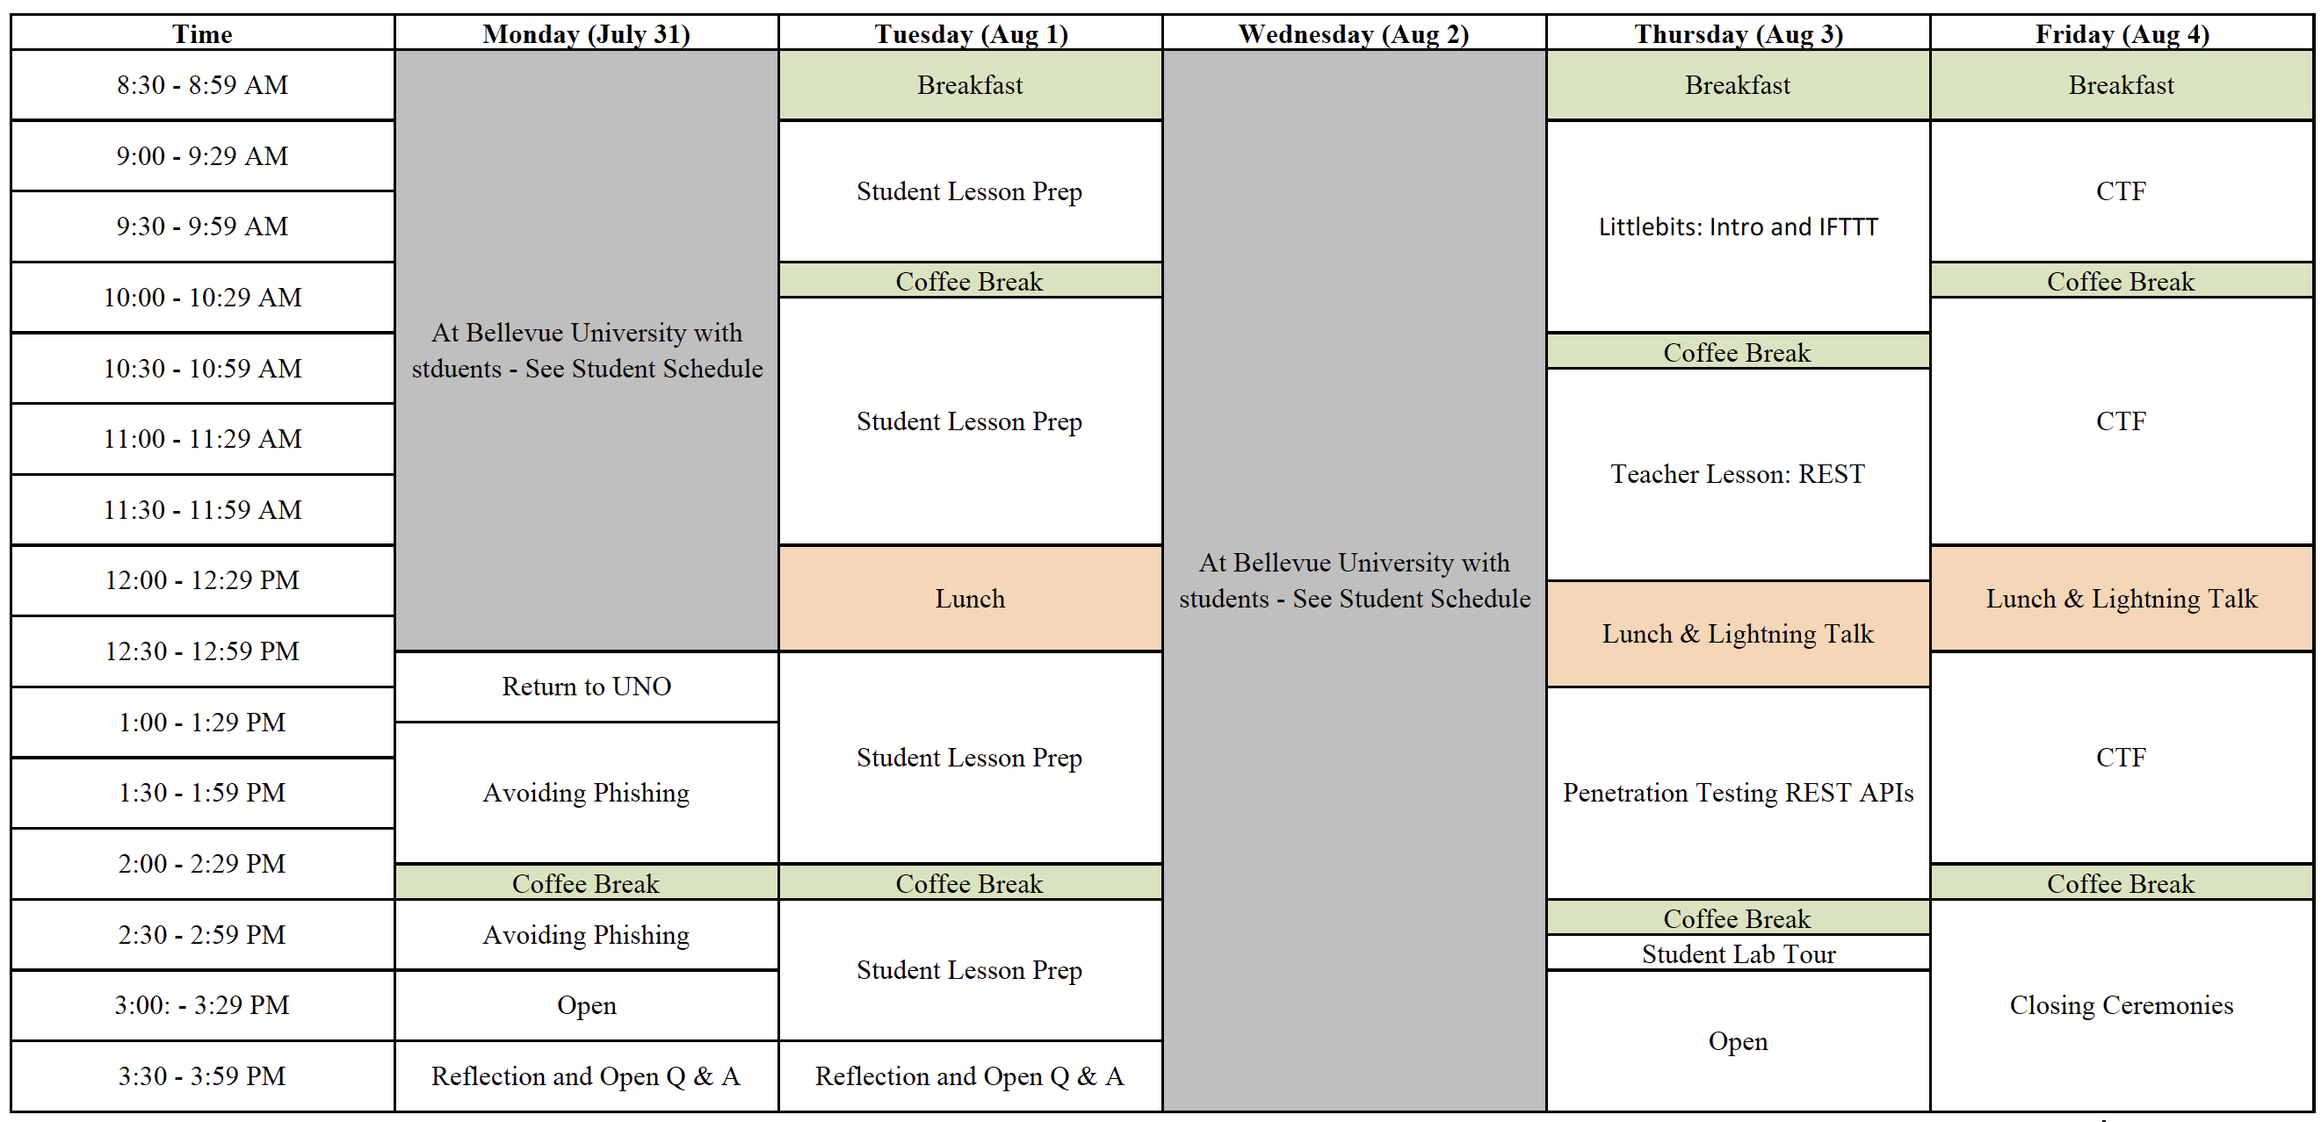
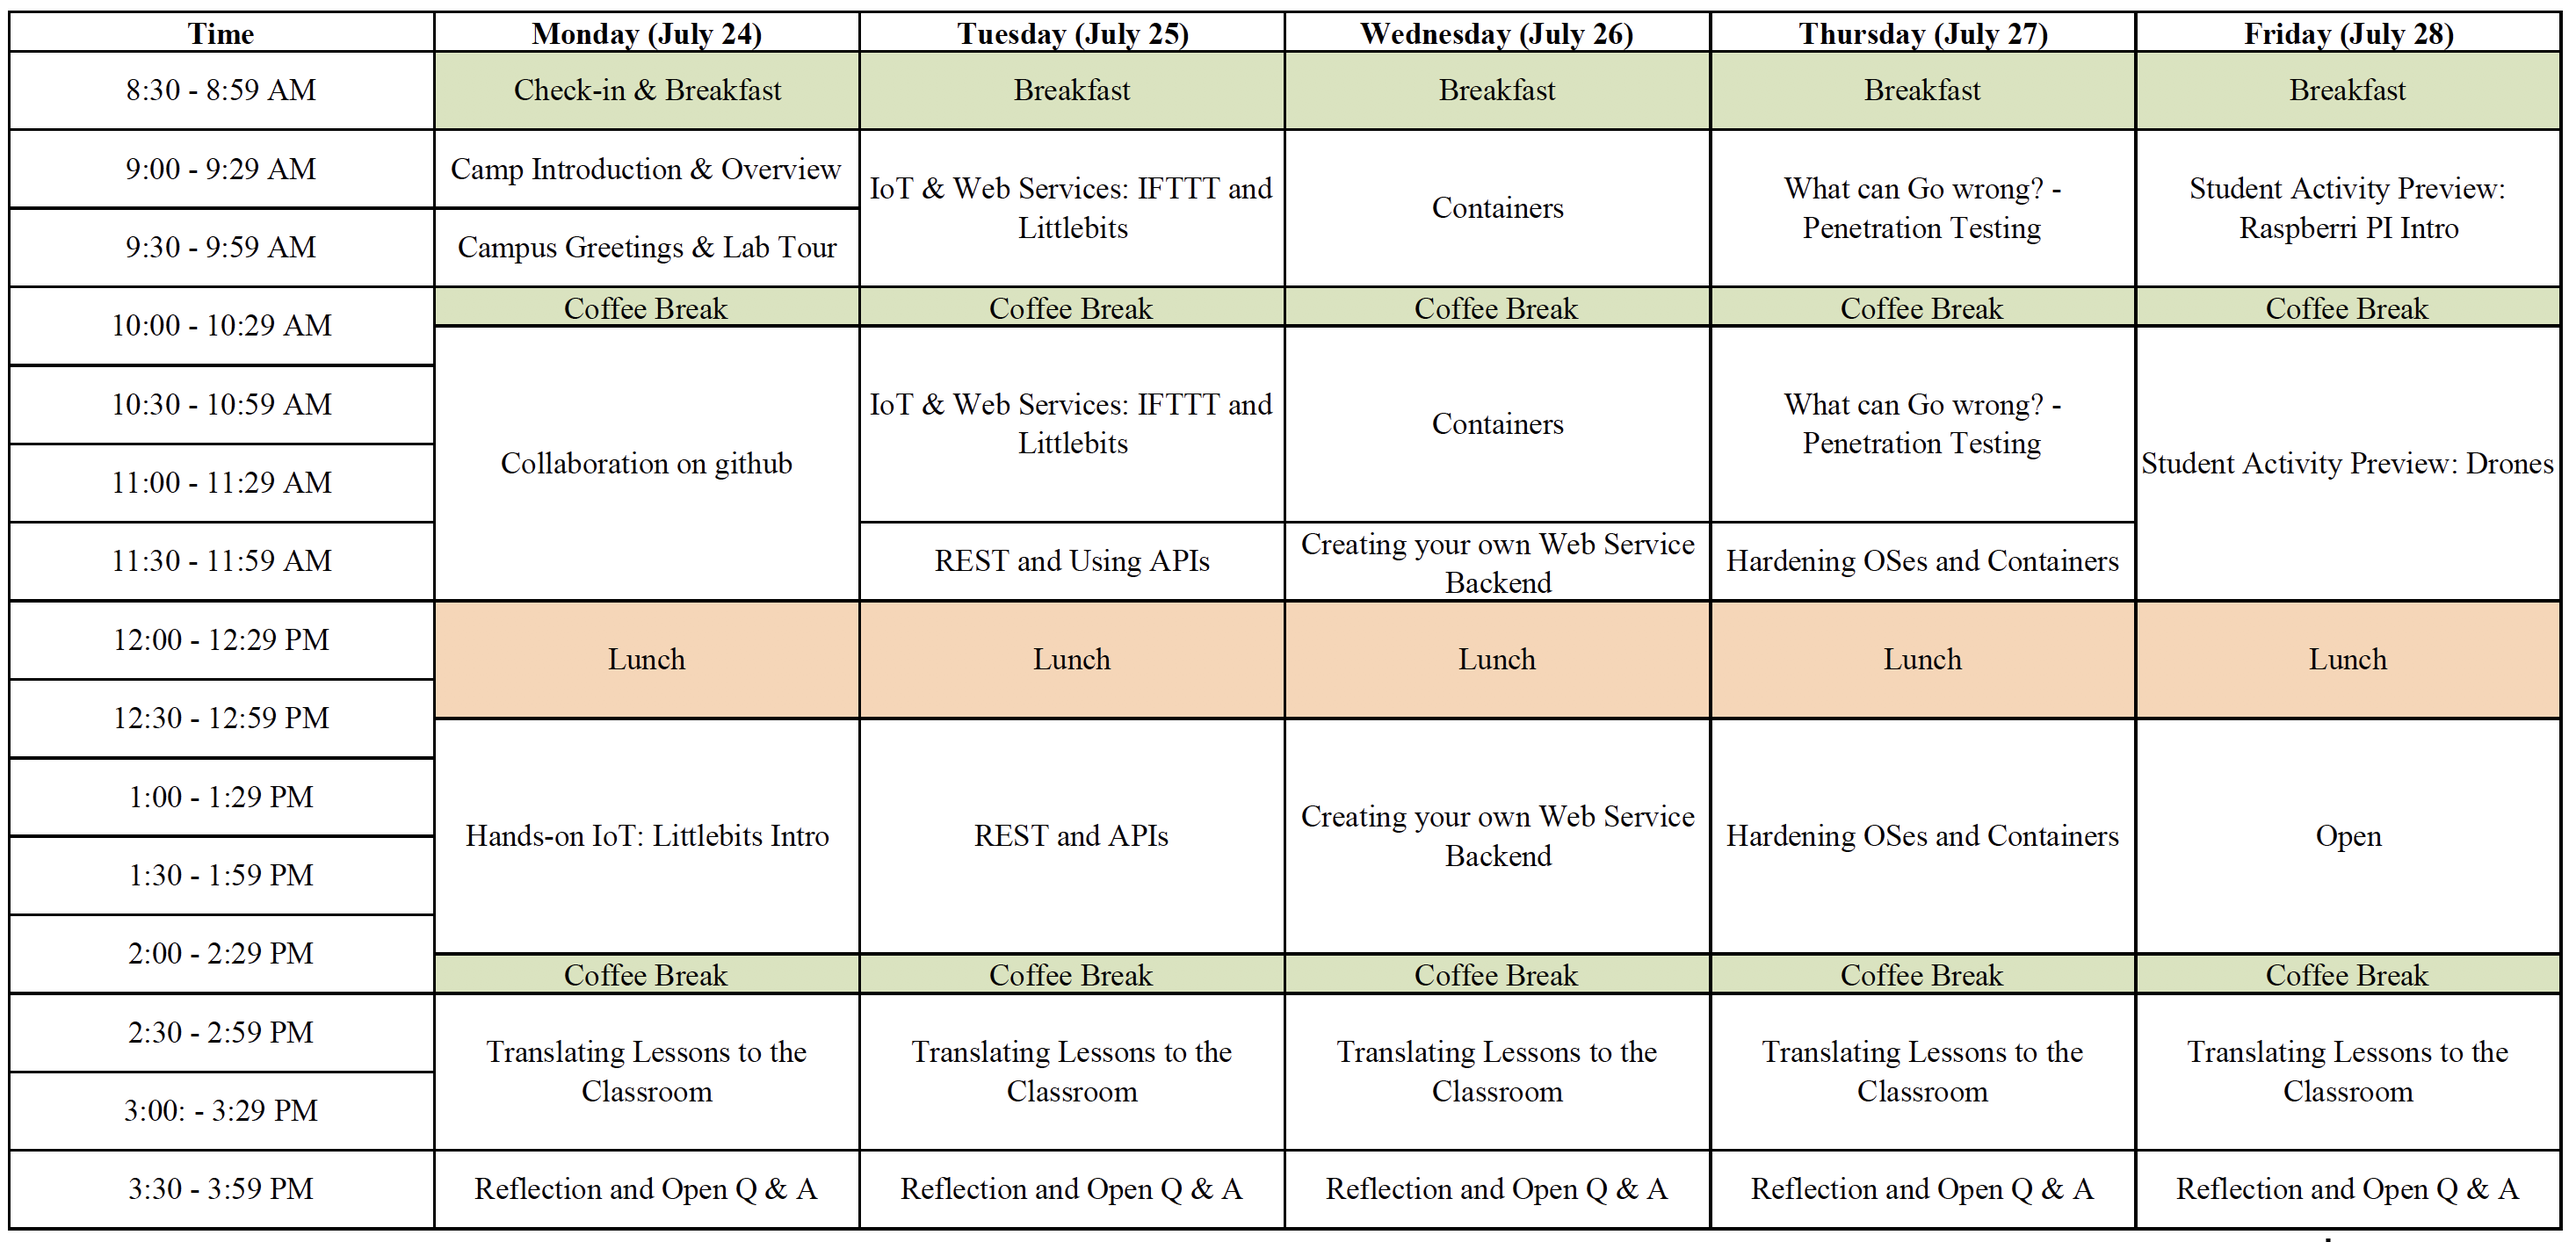
updates to schedule and landing page

diff --git a/README.md b/README.md
@@ -10,23 +10,18 @@ Want to get a hold of camp staff or fellow campers? Use [our official Slack Chan
 Social media is welcome at camp - use the hashtag `#nebraskagencyber`
 
 ## Camp Schedule
-### Week One
+### Week One Events
+Teachers, for a full list of lessons in Week one, check out the [Teacher's Zone](./teachers/README.md)
+
 ![Teachers Week 1](./img/uno-camp-schedule-teachers-week1.png)  
 
-### Week Two
+## Week Two Events
 #### Students
 ![Students Week 2](./img/uno-camp-schedule-students-week2.png)  
 
 #### Teachers
 ![Teachers Week 2](./img/uno-camp-schedule-teachers-week2.png)
 
-# Camp Content
-The guides are organized by camp days and are available at the linked urls:
-
-## Week One Events
-Teachers, for a full list of lessons in Week one, check out the [Teacher's Zone](./teachers/README.md)
-
-## Week Two Events
 ### Day 1: TBA
 ### Day 2: TBA
 ### Day 3: TBA
@@ -71,11 +66,13 @@ Bellevue University
 [Dr. Robin Gandhi](http://faculty.ist.unomaha.edu/rgandhi/)    
 Associate Professor of Cybersecurity  
 University of Nebraska at Omaha  
+[rgandhi@unomaha.edu](mailto:rgandhi@unomaha.edu)
 
 ![briana](./img/briana.png)  
 [Dr. Briana B. Morrison](http://www.brianamorrison.net)  
 Assistant Professor of Computer Science (Education)  
 University of Nebraska at Omaha  
+[bbmorrison@unomaha.edu](mailto:bbmorrison@unomaha.edu)
 
 #### Instructors
 Gary Sparks  
